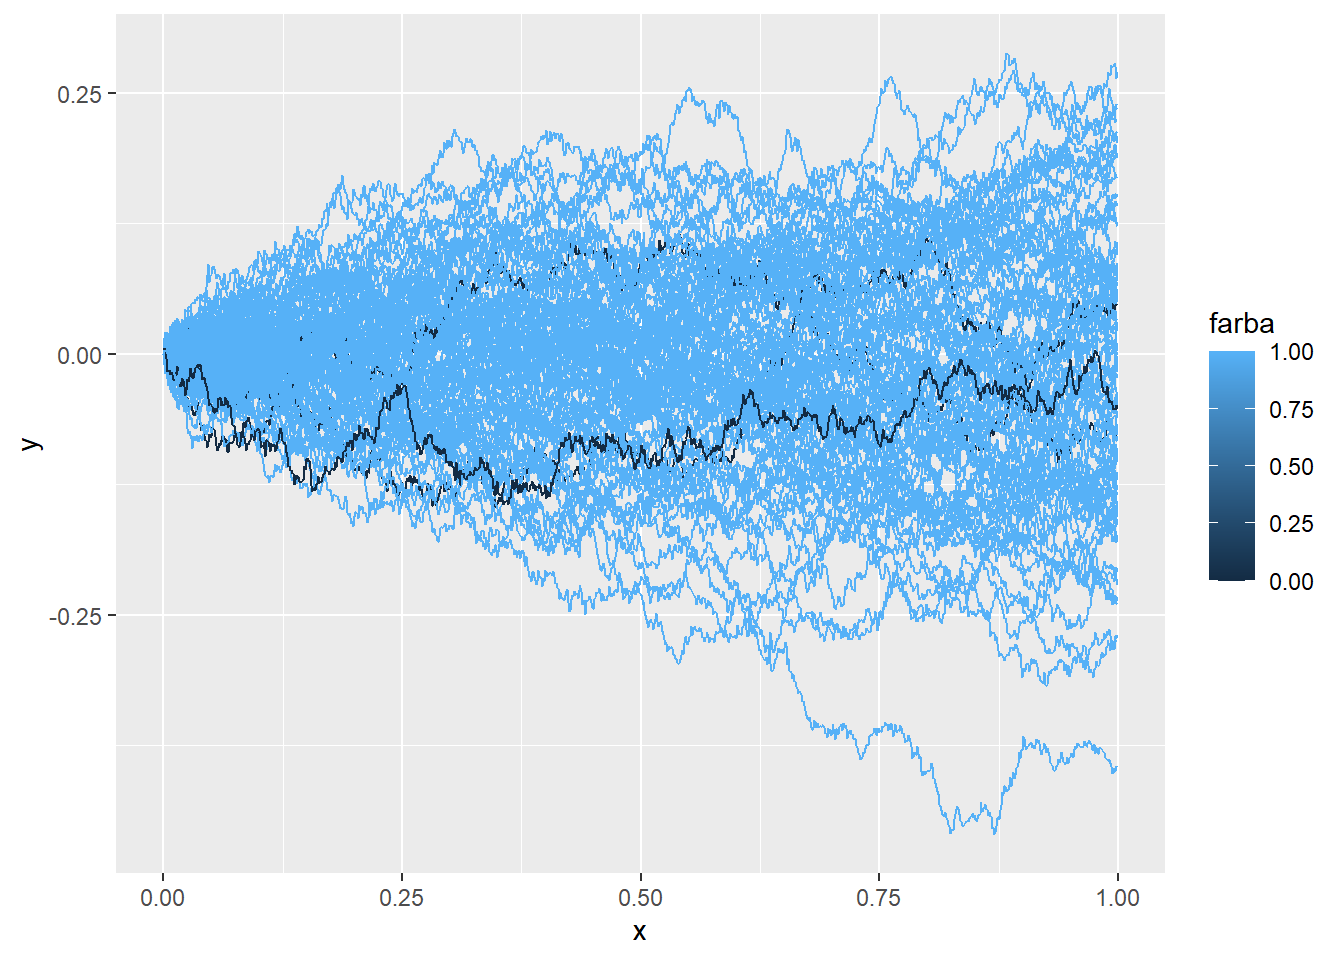
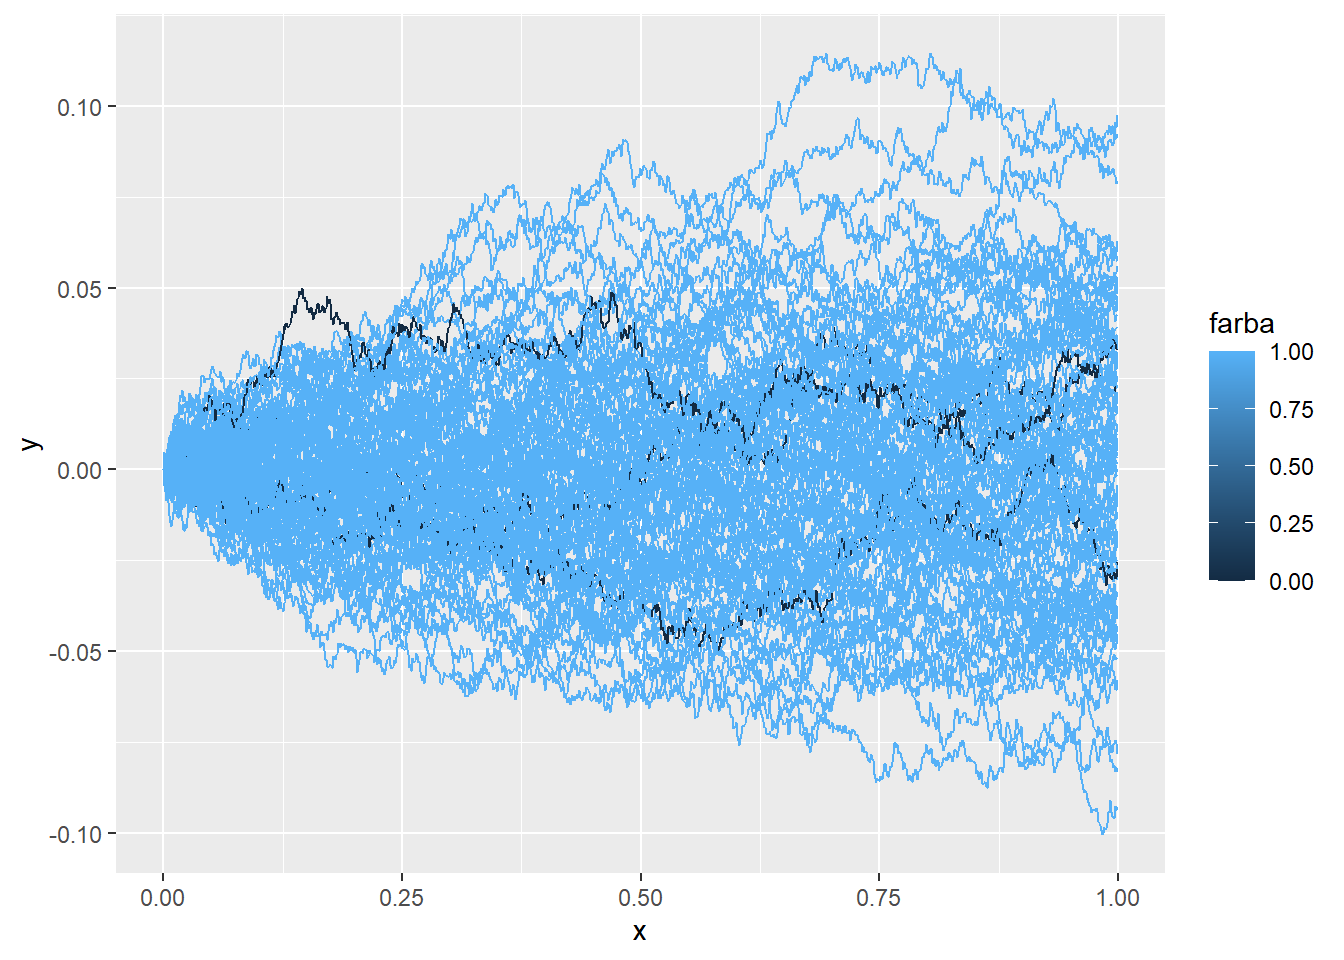
Add files via upload

diff --git a/wiener.cpp b/wiener.cpp
@@ -38,7 +38,7 @@ int main() {
             double v1 = ((double)(rand()) + 1.) / ((double)(RAND_MAX)+1.);
             double v2 = ((double)(rand()) + 1.) / ((double)(RAND_MAX)+1.);
             vect.push_back(pomoc2);
-            pomoc2 = pomoc2 + sqrt(T / (N)) * cos(2 * M_PI * v2) * sqrt(-2. * log(v1) * 0.02);
+            pomoc2 = pomoc2 + sqrt(T / (N)) * cos(2 * M_PI * v2) * sqrt(-2. * log(v1) * 0.002);
         }
         nah_traj Point(time, vect);
         TR1 = Point;
@@ -50,12 +50,12 @@ int main() {
     if (vypis.is_open()) {
         vypis << "x,y,typ,farba" << std::endl;
         for (int i = 0; i < poc_t; i++) {
-            if (Tr.at(i).get_y().at(2) > 0.002 && Tr.at(i).get_y().at(3) + Tr.at(i).get_y().at(2) < 0.002)
+            if (Tr.at(i).get_y().at(2) > 0.002 && Tr.at(i).get_y().at(3) < 0.002)
                 pr++;
             
             for (int j = 0; j < Tr.at(i).get_x().size(); j++) {
                 vypis << Tr.at(i).get_x().at(j) << "," << Tr.at(i).get_y().at(j) << "," << i << ",";
-                if (Tr.at(i).get_y().at(2) > 0.002 && Tr.at(i).get_y().at(3) + Tr.at(i).get_y().at(2) < 0.002)
+                if (Tr.at(i).get_y().at(2) > 0.002 && Tr.at(i).get_y().at(3) < 0.002)
                     vypis << 0 << std::endl;
                 else
                     vypis << 1 << std::endl;
